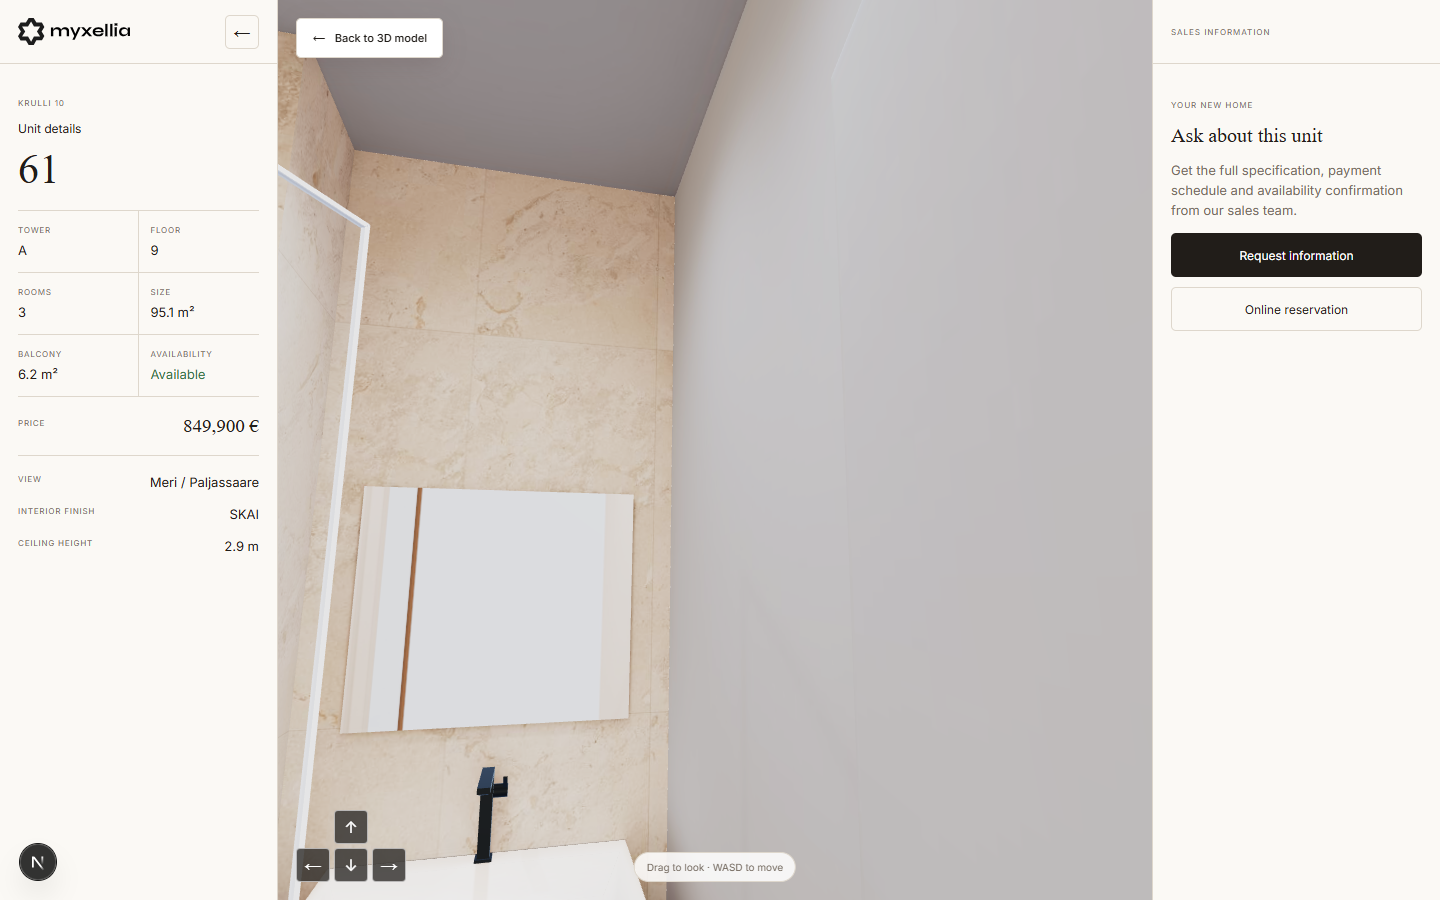
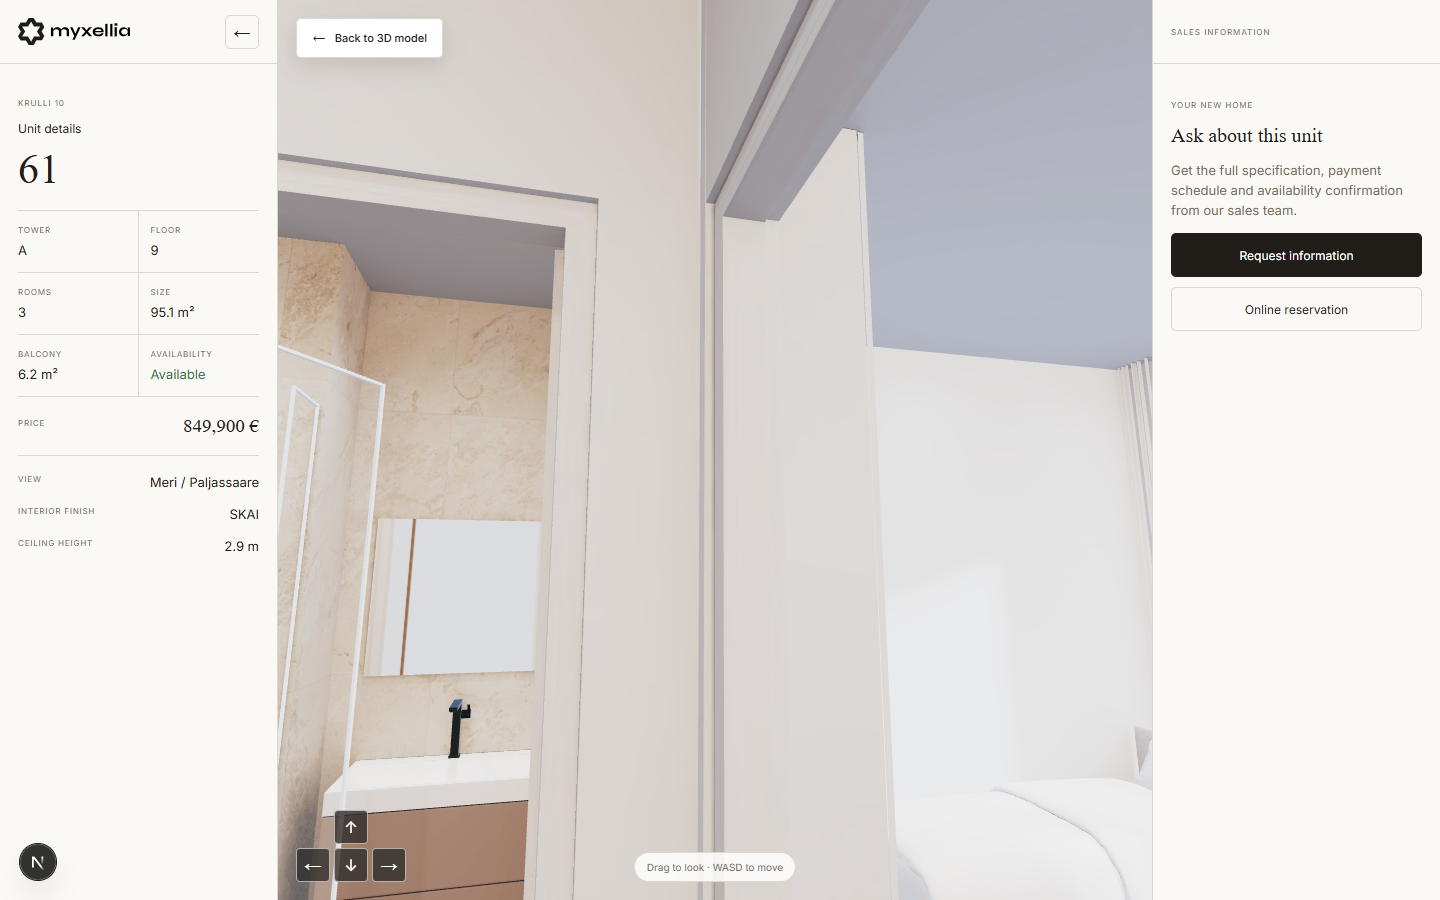
added window view to the outside world

diff --git a/components/unit-model/UnitModelViewer.tsx b/components/unit-model/UnitModelViewer.tsx
@@ -11,6 +11,13 @@ function publicAssetPath(path: string) {
   return path.startsWith("./") ? path.slice(1) : path;
 }
 
+function panoramaForFloor(floor: number) {
+  if (floor <= 6) return "/unit-assets/environments/view-20m.webp";
+  if (floor <= 8) return "/unit-assets/environments/view-27m.webp";
+  if (floor <= 10) return "/unit-assets/environments/view-34m.webp";
+  return "/unit-assets/environments/view-42m.webp";
+}
+
 function materialKey(name: string) {
   return name
     .toLowerCase()
@@ -138,7 +145,7 @@ function findWalkableFloorPoint(model: THREE.Object3D, blockers: THREE.Mesh[], f
   return bestPoint;
 }
 
-export function UnitModelViewer({ asset }: { asset: UnitAsset }) {
+export function UnitModelViewer({ asset, floor }: { asset: UnitAsset; floor: number }) {
   const host = useRef<HTMLDivElement>(null);
   const enterTour = useRef<() => void>(() => undefined);
   const leaveTour = useRef<() => void>(() => undefined);
@@ -185,6 +192,8 @@ export function UnitModelViewer({ asset }: { asset: UnitAsset }) {
     const tourLookTarget = new THREE.Vector3();
     const modelCenter = new THREE.Vector3();
     const modelBounds = new THREE.Box3();
+    let tourBackdrop: THREE.Mesh<THREE.CylinderGeometry, THREE.MeshBasicMaterial> | undefined;
+    let tourPanorama: THREE.Texture | undefined;
     const destinationRing = new THREE.Mesh(
       new THREE.RingGeometry(0.21, 0.3, 48),
       new THREE.MeshBasicMaterial({ color: 0xffffff, transparent: true, opacity: 1, side: THREE.DoubleSide, depthTest: false, depthWrite: false, toneMapped: false }),
@@ -385,6 +394,42 @@ export function UnitModelViewer({ asset }: { asset: UnitAsset }) {
         overviewPosition.copy(camera.position);
         overviewTarget.copy(controls.target);
 
+        const panoramaSource = await textureLoader.loadAsync(panoramaForFloor(floor));
+        const panoramaImage = panoramaSource.image as HTMLImageElement;
+        const panoramaCanvas = document.createElement("canvas");
+        panoramaCanvas.width = panoramaImage.naturalWidth || panoramaImage.width;
+        panoramaCanvas.height = Math.floor(
+          (panoramaImage.naturalHeight || panoramaImage.height) * 0.66,
+        );
+        panoramaCanvas
+          .getContext("2d")
+          ?.drawImage(
+            panoramaImage,
+            0,
+            0,
+            panoramaCanvas.width,
+            panoramaCanvas.height,
+            0,
+            0,
+            panoramaCanvas.width,
+            panoramaCanvas.height,
+          );
+        panoramaSource.dispose();
+        tourPanorama = new THREE.CanvasTexture(panoramaCanvas);
+        tourPanorama.colorSpace = THREE.SRGBColorSpace;
+        tourPanorama.wrapS = THREE.RepeatWrapping;
+        tourPanorama.wrapT = THREE.ClampToEdgeWrapping;
+        tourPanorama.anisotropy = renderer.capabilities.getMaxAnisotropy();
+        const backdropRotation = [...asset.model].reduce((total, character) => total + character.charCodeAt(0), 0) % 360;
+        tourBackdrop = new THREE.Mesh(
+          new THREE.CylinderGeometry(60, 60, 30, 96, 1, true),
+          new THREE.MeshBasicMaterial({ map: tourPanorama, side: THREE.BackSide, toneMapped: false }),
+        );
+        tourBackdrop.position.set(modelCenter.x, modelBounds.min.y + 10, modelCenter.z);
+        tourBackdrop.rotation.y = THREE.MathUtils.degToRad(backdropRotation);
+        tourBackdrop.visible = false;
+        scene.add(tourBackdrop);
+
         const markerCenter = walkMarker
           ? new THREE.Box3().setFromObject(walkMarker).getCenter(new THREE.Vector3())
           : findWalkableFloorPoint(model, collisionMeshes, modelCenter);
@@ -400,6 +445,7 @@ export function UnitModelViewer({ asset }: { asset: UnitAsset }) {
           tourEnabled = true;
           traveling = false;
           destinationRing.visible = false;
+          if (tourBackdrop) tourBackdrop.visible = true;
           pressed.clear();
           camera.fov = 68;
           camera.near = 0.04;
@@ -417,6 +463,7 @@ export function UnitModelViewer({ asset }: { asset: UnitAsset }) {
           traveling = false;
           dragging = false;
           destinationRing.visible = false;
+          if (tourBackdrop) tourBackdrop.visible = false;
           renderer.domElement.style.cursor = "grab";
           pressed.clear();
           camera.fov = 24;
@@ -483,6 +530,7 @@ export function UnitModelViewer({ asset }: { asset: UnitAsset }) {
       renderer.domElement.removeEventListener("pointercancel", onPointerUp);
       renderer.domElement.removeEventListener("pointerleave", onPointerLeave);
       controls.dispose();
+      tourPanorama?.dispose();
       scene.traverse((object) => {
         if (!(object instanceof THREE.Mesh)) return;
         object.geometry.dispose();

diff --git a/components/units/UnitWorkspace.tsx b/components/units/UnitWorkspace.tsx
@@ -14,7 +14,7 @@ export function UnitWorkspace({ unit, asset, apartments, plans }: { unit: Apartm
         <button className={view === "plan" ? "selected" : ""} onClick={() => setView("plan")}>Floor plan</button>
       </nav>
       {view === "model" ? (
-        <UnitModelViewer asset={asset} />
+        <UnitModelViewer asset={asset} floor={Number(unit.floor)} />
       ) : (
         <FloorPlanViewer apartments={apartments} registry={plans} initialFloor={Number(unit.floor)} initialTower={unit.house.identificator} activeUnitNumber={unit.number_num} showControls={false} />
       )}
